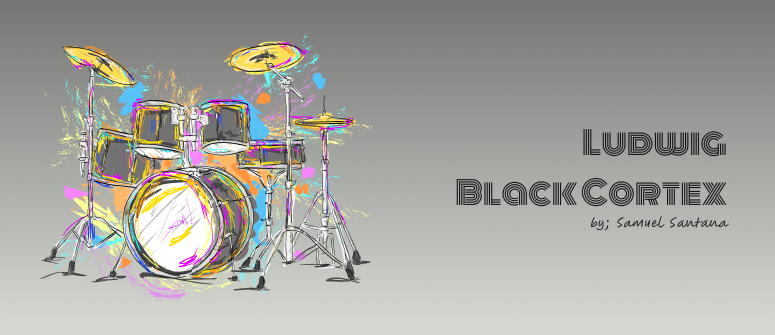
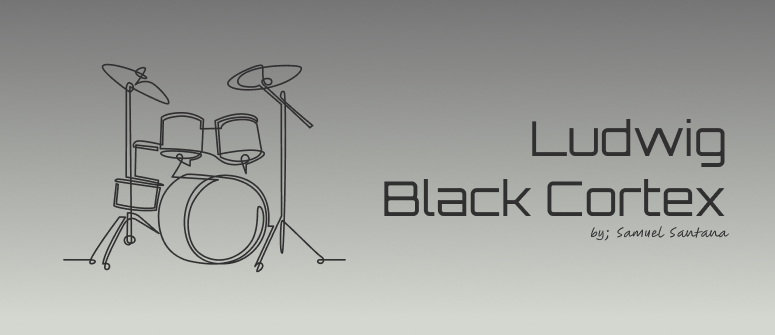
updade ui/png

Changed region(s): [[0.0619, 0.1194, 0.4955, 0.8955], [0.4955, 0.5373, 0.96, 0.7164], [0.6813, 0.3582, 0.96, 0.5075]]

diff --git a/README.md b/README.md
@@ -2,7 +2,8 @@
 
 ## [DOWNLOAD](https://github.com/samuelsantanaoficial/LudwigBlackCortex/releases)
 
-![Screenshot](ui/screenshot.png)
+![Screenshot](ui/screenshot_home.png)
+![Screenshot](ui/screenshot_controls.png)
 
 ## Sobre
 
@@ -43,6 +44,31 @@ Gravado e editado com o software de áudio [Cockos Reaper](https://www.reaper.fm
         - [x] Pan (panorama)
         - [x] Expressão
         - [x] Afinação (Kick, Snare, Toms) `tune_onccN=512`
+
+## Estrutura de pastas
+```
+/LudwigBlackCortex/
+│
+├── LudwigBlackCortex.sfz
+│
+├── Samples/
+│   ├── Crash1_Edge_A_vel01_mic-Overhead_L.wav
+|   ├── Crash1_Edge_A_vel01_mic-Overhead_R.wav
+|   ├── Crash1_Edge_A_vel02_mic-Overhead_L.wav
+│   └── ...
+│
+├── Include/
+│   ├── Kick_Open.sfz
+│   ├── Snare_Center.sfz
+│   └── ...
+│
+├── Midimap/
+│   └── General Midi.txt
+│
+└── ui/
+    ├── background.png
+    └── controls.png
+```
 
 ## Kit e Articulações
 - [x] Kick
